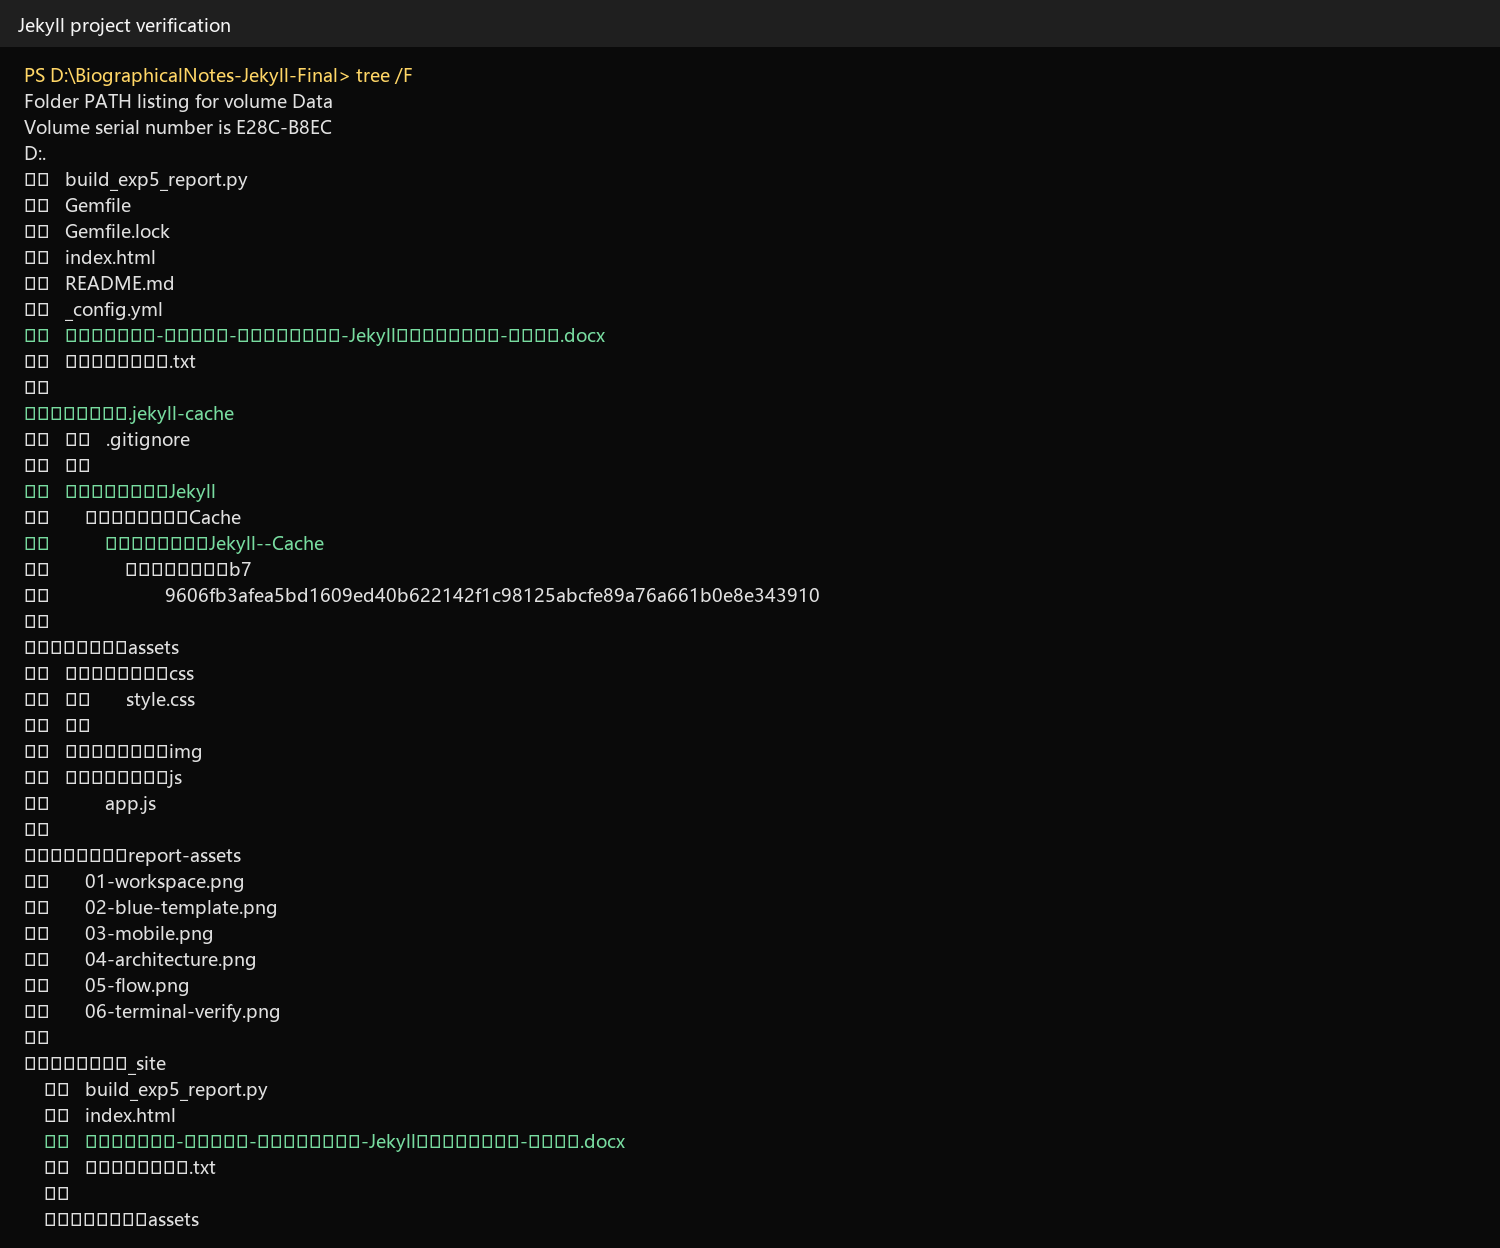
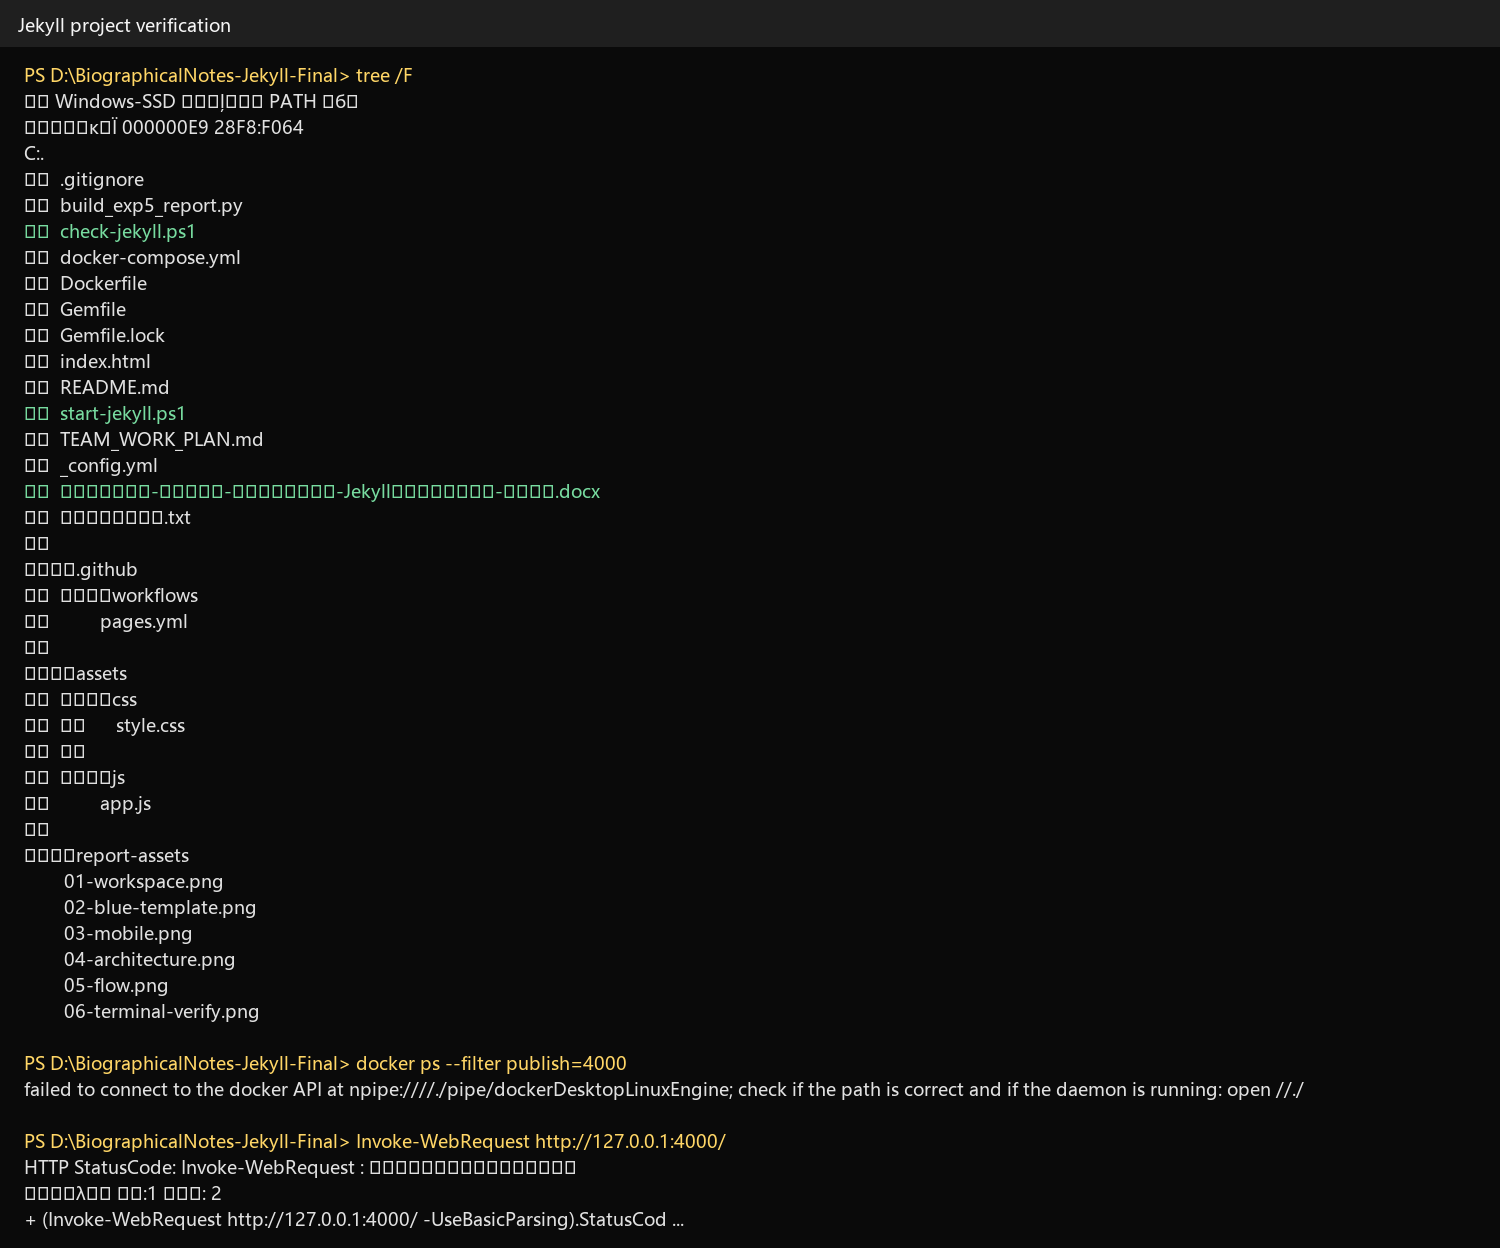
更新文档材料：修改README、补充运行截图、完善分工报告docx、更新复现命令文本，未改动JS/CSS业务代码

Changed region(s): [[0.0, 0.0625, 0.552, 0.8125], [0.0, 0.8438, 0.4907, 1.0], [0.7053, 0.8438, 0.736, 0.875]]

diff --git a/README.md b/README.md
@@ -1,128 +1,179 @@
-# 简历生成与优化工作台（Jekyll 静态网站版）
+🎯 简历生成与优化工作台（Jekyll 静态网站版）
+================================================
 
-本项目由原 Vue/FastAPI 简历生成器改造而来，按《创新实验》期末大作业“静态网站”方向重新实现。项目采用 Jekyll 作为静态站点生成工具，核心交互由原生 HTML、CSS 和 JavaScript 完成。
+基于 Jekyll 的简历制作工具，支持多种场景、模板和主题，本地规则评分，隐私友好
 
-## 重要说明
 
-- 本版本不在前端直接调用大模型 API。
-- 右侧建议区是浏览器本地规则评分和关键词匹配，结果可解释、可离线运行。
-- 如果要恢复真实大模型能力，应增加后端代理服务，由后端保存 API Key；不能把密钥写进 Jekyll 静态网页。
-- 页面示例使用中性演示数据，不使用真实个人信息。
+✨ 项目简介
+----------
 
-## 功能模块
+本项目由原 Vue/FastAPI 简历生成器改造而来，按《创新实验》期末大作业"静态网站"方向重新实现。
 
-- 入口界面：先选择材料场景、模板、主题色和语言，再进入工作台。
-- 场景选择：求职、考研、保研、升学。
-- 简历编辑：个人信息、教育背景、项目经历、技能奖项。
-- 实时预览：编辑内容后即时刷新 A4 简历预览。
-- 模板切换：保留 9 个模板选项，对应原项目模板规模。
-- 主题切换：极光蓝、森林绿、琥珀橙、学院紫。
-- 语言切换：中文 / English。
-- 本地规则建议：根据简历完整度、量化表达和目标关键词给出评分与建议。
-- 目标匹配：粘贴岗位 JD 或申请要求后进行关键词匹配。
-- 导出打印：通过浏览器打印功能导出 PDF。
+- **技术栈**: Jekyll + HTML + CSS + JavaScript
+- **运行方式**: Docker 一键启动，无需后端
+- **核心特性**: 本地规则评分，数据不上传，隐私安全
 
-## 模板数量
 
-原 Vue 项目提供 9 个模板：
+📋 重要说明
+-----------
 
-```text
-modern、blue-gold、sidebar、team-blue-gray、team-classic、
-team-modern、team-minimal、team-timeline、team-professional
+| 事项 | 说明 |
+|------|------|
+| 🚫 | 本版本不在前端直接调用大模型 API |
+| 🧠 | 建议区采用浏览器本地规则评分和关键词匹配 |
+| 🔒 | 所有数据仅在浏览器本地处理，不上传服务器 |
+| 📊 | 评分规则清晰可解释，可离线运行 |
+
+
+🎁 功能模块
+-----------
+
+| 图标 | 模块 | 功能描述 |
+|------|------|----------|
+| 🚪 | 入口界面 | 选择材料场景、模板、主题色和语言 |
+| 🎯 | 场景选择 | 求职 / 考研 / 保研 / 升学 |
+| ✏️ | 简历编辑 | 个人信息、教育背景、项目经历、技能奖项 |
+| 👁️ | 实时预览 | 编辑内容即时刷新 A4 简历预览 |
+| 🎨 | 模板切换 | 9 个精美模板可选 |
+| 💅 | 主题切换 | 极光蓝 / 森林绿 / 琥珀橙 / 学院紫 |
+| 🌐 | 语言切换 | 中文 / English |
+| 📈 | 本地评分 | 简历完整度、量化表达、关键词匹配评分 |
+| 🔍 | 目标匹配 | 粘贴岗位 JD 进行关键词匹配分析 |
+| 📤 | 导出打印 | 浏览器打印导出 PDF |
+
+
+📐 模板展示
+-----------
+
+Jekyll 静态版提供 9 个精美模板：
+
+📄 现代通用 | 🏆 蓝金正式 | 📑 侧栏信息 | 🤝 蓝灰团队 | 📖 经典单栏  
+✨ 极简投递 | ⏱️ 时间线项目 | 💼 专业沉稳 | 📦 紧凑信息
+
+
+🛠️ 技术架构
+-----------
+
+```
+┌─────────────────────────────────────┐
+│         Jekyll 静态网站架构          │
+├─────────────────────────────────────┤
+│  Jekyll 构建层                       │
+│  ├── _config.yml                    │
+│  ├── index.html (Liquid 模板)       │
+│  └── 静态资源管理                    │
+├─────────────────────────────────────┤
+│  页面展示层                          │
+│  ├── 入口选择界面                    │
+│  ├── 编辑工作台                      │
+│  ├── A4 简历预览                    │
+│  └── 模板/主题切换                  │
+├─────────────────────────────────────┤
+│  本地交互层                          │
+│  ├── JavaScript 状态同步             │
+│  ├── 材料评分算法                    │
+│  ├── 关键词匹配                     │
+│  └── 打印导出 PDF                   │
+└─────────────────────────────────────┘
 ```
 
-Jekyll 静态版当前提供 9 个模板选项：
 
-```text
-现代通用、蓝金正式、侧栏信息、蓝灰团队、经典单栏、
-极简投递、时间线项目、专业沉稳、紧凑信息
-```
+🚀 快速启动
+-----------
 
-## 技术栈
+### 环境要求
 
-- 静态网站生成：Jekyll
-- 页面结构：HTML / Liquid
-- 样式：CSS
-- 交互：原生 JavaScript
-- 运行验证：Docker + Jekyll
-
-## 运行环境
-
-```powershell
 Docker Desktop 29.x 或更高版本
-```
 
-本机不需要单独安装 Ruby、Bundler 或 Jekyll，统一通过 Docker 运行。
-
-## 快速启动（推荐）
+### 一键启动（推荐）
 
 ```powershell
-Set-Location -LiteralPath "D:\BiographicalNotes-Jekyll-Final"
+Set-Location -LiteralPath "C:\Users\13617\ai-resume-generator.github.io"
 .\start-jekyll.ps1
 ```
 
-脚本会完成以下工作：
+**启动脚本功能：**
+- ✅ 停止旧容器
+- ✅ 检查 4000 端口占用
+- ✅ Docker Compose 启动
+- ✅ 自动轮询验证服务就绪
 
-- 停止当前项目旧的 Jekyll 容器或临时容器。
-- 检查 `4000` 端口是否被其他服务占用。
-- 使用 `docker compose up -d` 启动站点。
-- 轮询 `http://127.0.0.1:4000/`，确认页面可访问后输出示例地址。
-
-首次启动可能需要下载镜像或安装依赖，等待脚本提示成功即可。
-
-## 状态检查
+### 状态检查
 
 ```powershell
-Set-Location -LiteralPath "D:\BiographicalNotes-Jekyll-Final"
+Set-Location -LiteralPath "C:\Users\13617\ai-resume-generator.github.io"
 .\check-jekyll.ps1
 ```
 
-检查脚本会确认 Docker 可用、`jekyll` 服务处于运行状态，并验证主页和示例页面全部返回 `200`。
+### 手动命令
 
-## 小组协作
+```powershell
+docker compose up -d        # 启动服务
+docker compose logs -f jekyll  # 查看日志
+docker compose down         # 停止服务
+```
+
+
+🌐 访问地址
+-----------
+
+| 图标 | 页面 | 地址 |
+|------|------|------|
+| 🏠 | 主页 | http://127.0.0.1:4000/ |
+| 📝 | 保研场景 | http://127.0.0.1:4000/?case=recommendation&template=blue&theme=ember |
+| 🌍 | 英文升学 | http://127.0.0.1:4000/?case=admission&template=sidebar&theme=violet&lang=en |
+| 📚 | 考研时间线 | http://127.0.0.1:4000/?case=postgraduate&template=timeline&theme=forest |
+
+
+🔗 GitHub Pages 在线预览
+-------------------------
+
+仓库已配置 GitHub Actions 自动部署。
+
+**开启步骤：**
+
+1. 打开仓库 **Settings**
+2. 进入 **Pages**
+3. 在 **Build and deployment** 中选择 **Source → GitHub Actions**
+4. 等待 **Deploy Jekyll site to GitHub Pages** 工作流完成
+
+**线上地址：**
+
+https://xuanxuanwuhh.github.io/ai-resume-generator.github.io/
+
+
+👥 小组协作
+-----------
 
 四人协作分工、分支命名和避免冲突的文件归属见 `TEAM_WORK_PLAN.md`。
 
-## 手动命令
 
-```powershell
-Set-Location -LiteralPath "D:\BiographicalNotes-Jekyll-Final"
-docker compose up -d
-docker compose logs -f jekyll
-docker compose down
+📁 项目结构
+-----------
+
+```
+ai-resume-generator.github.io/
+├── .github/workflows/    # GitHub Actions 部署配置
+├── assets/               # 静态资源
+│   ├── css/style.css     # 样式文件
+│   └── js/app.js         # 交互脚本
+├── report-assets/        # 报告截图素材
+├── _config.yml           # Jekyll 配置
+├── index.html            # 主页面
+├── README.md             # 项目说明
+├── TEAM_WORK_PLAN.md     # 团队分工计划
+├── build_exp5_report.py  # 报告生成脚本
+├── docker-compose.yml    # Docker 配置
+├── start-jekyll.ps1      # 启动脚本
+└── check-jekyll.ps1      # 检查脚本
 ```
 
-## 访问地址
 
-主页：
+📜 许可证
+---------
 
-```text
-http://127.0.0.1:4000/
-```
+本项目仅供学习和课程作业使用，遵循课程要求和学术诚信规范。
 
-示例页面：
+---
 
-```text
-http://127.0.0.1:4000/?case=recommendation&template=blue&theme=ember
-http://127.0.0.1:4000/?case=admission&template=sidebar&theme=violet&lang=en
-http://127.0.0.1:4000/?case=postgraduate&template=timeline&theme=forest
-```
-
-## GitHub Pages 在线预览
-
-仓库已经包含 GitHub Actions 部署配置：`.github/workflows/pages.yml`。
-
-第一次开启 Pages：
-
-1. 打开仓库 `Settings`。
-2. 进入 `Pages`。
-3. 在 `Build and deployment` 里把 `Source` 选为 `GitHub Actions`。
-4. 回到 `Actions`，等待 `Deploy Jekyll site to GitHub Pages` 运行成功。
-
-线上地址：
-
-```text
-https://xuanxuanwuhh.github.io/ai-resume-generator.github.io/
-```
-
-工作流会在 GitHub Pages 上自动使用仓库名作为 `baseurl`，本地 Docker 运行仍然使用 `http://127.0.0.1:4000/`。
+*Made with ❤️ for 创新实验课程*